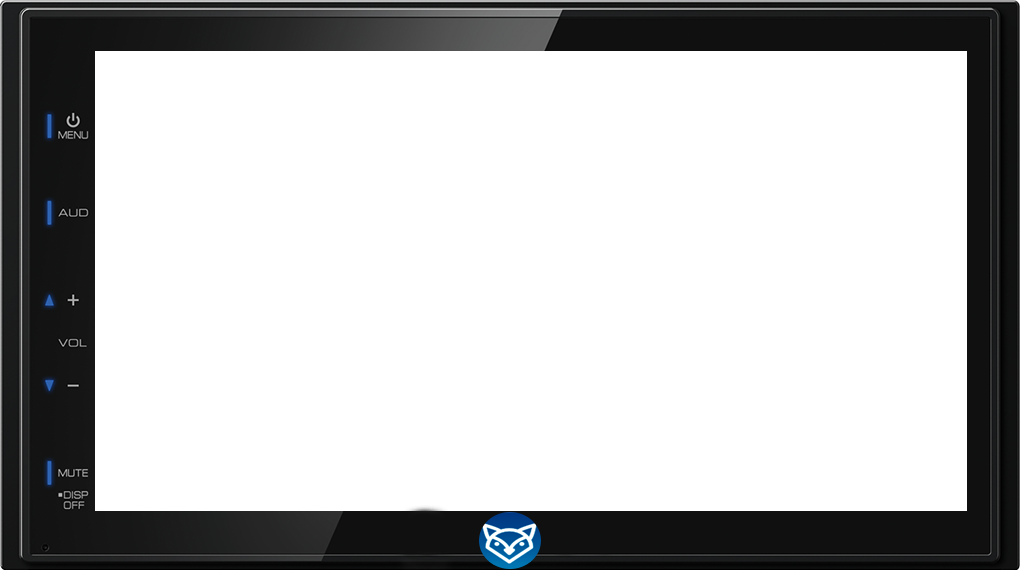
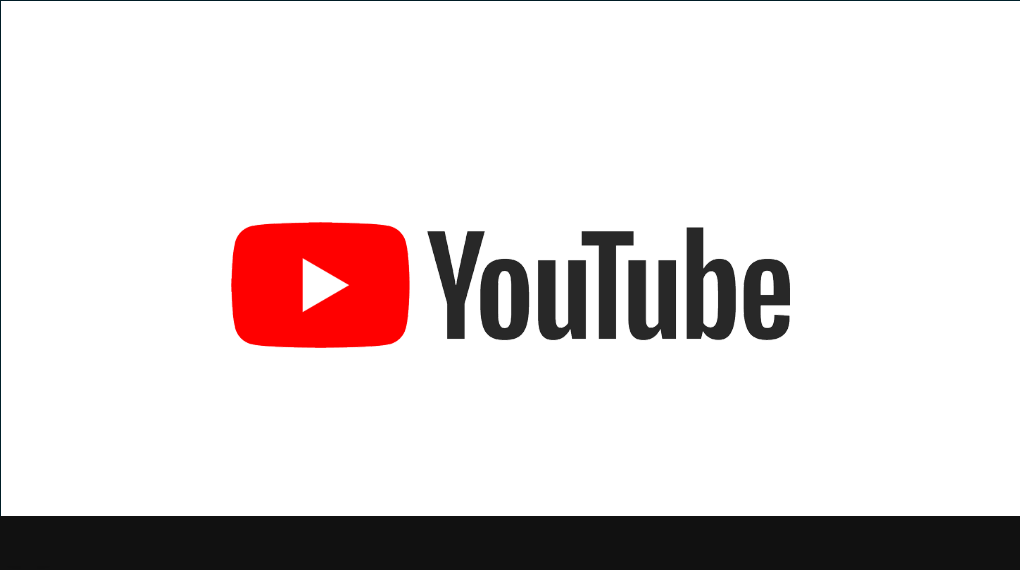
Update 05-03-22
Atualização no player!

Changed region(s): [[0.0, 0.0, 1.0, 1.0], [0.2127, 0.3877, 0.7902, 0.6263]]

diff --git a/esx_carradio/html/main.css b/esx_carradio/html/main.css
@@ -19,20 +19,20 @@
     margin-left: 74px;
     margin-top: 39px;
     opacity: 1;
-    background-color: black;
+    background-color: rgba(0, 0, 0, 0);
 }
 
 #shutdownbutton {
-    background: transparent;
-    border: none !important;
-    position: absolute;
-    z-index: 97;
-    width: 15px;
-    height: 15px;
-    opacity: 0.65;
-    margin-top: 87px;
-    margin-left: 50px;
-    border-radius: 50%;
+  background: #b10000;
+  border: none !important;
+  position: absolute;
+  z-index: 97;
+  width: 15px;
+  height: 15px;
+  opacity: 0.65;
+  margin-top: 409px;
+  margin-left: 5px;
+  border-radius: 50%;
 }
 
 #shutdownbutton:focus {
@@ -48,11 +48,11 @@
     z-index: 97;
     width: 15px;
     height: 15px;
-    background: transparent;
+    background: rgb(89 89 89);
     border: none !important;
     opacity: 0.65;
-    margin-top: 228px;
-    margin-left: 50px;
+    margin-top: 419px;
+    margin-left: 677px;
     border-radius: 50%;
 }
 
@@ -65,16 +65,16 @@
 }
 
 #volumedown {
-    position: absolute;
-    z-index: 97;
-    width: 15px;
-    height: 15px;
-    background: transparent;
-    border: none !important;
-    opacity: 0.65;
-    margin-top: 295px;
-    margin-left: 50px;
-    border-radius: 50%;
+  position: absolute;
+  z-index: 97;
+  width: 15px;
+  height: 15px;
+  background: rgb(89 89 89);
+  border: none !important;
+  opacity: 0.65;
+  margin-top: 419px;
+  margin-left: 719px;
+  border-radius: 50%;
 }
 
 #volumedown:focus {
@@ -89,12 +89,13 @@
     font-size: 40;
     text-align: center;
     font-weight: bold;
-    color: white;
+    color: rgba(255,255,255,0.0);
     margin-top: 10px;
 }
 
-
+/* caixa do link */
 #linkinput {
+    font-weight: 900;
     width: 530px;
     height: 35px;
     outline: none;
@@ -102,17 +103,20 @@
     border-radius: 15px;
 	padding-left : 15px;
     padding-right: 15px;
+    margin-top: 96px;
 	-webkit-box-sizing: border-box;
     -moz-box-sizing: border-box;
     box-sizing: border-box;
-	letter-spacing: 2px;
+	letter-spacing: 0px;
+    background-color: rgb(53, 53, 53);
+    color: white;
 }
-
+/* botao buscar */
 #inputok {
     width: 100px;
     height: 35px;
     border-radius: 15px;
-    background-color: white;
+    background-color: rgb(53, 53, 53);
     outline: none;
     border: none;
     text-align: center;
@@ -120,31 +124,27 @@
 	letter-spacing: 2px;
 	font-family: Roboto;
 	font-size: 15;
+    transition: all 0.5s;
 }
 
 #inputrec {
     margin: 0 auto;
     width: 650px;
-    height: 35px;
-    margin-top: 10px;
+    height: 40px;
+    margin-top: -30px;
 }
 
 #inputok:hover {
-    background-color: rgb(222, 222, 222);
+    background-color: rgb(89, 89, 89);
 }
 
 
-/* #bttrec {
-    position: relative;
-    margin: 0 auto;
-    width: 500px;
-    height: 75px;
-    margin-top: 60px;
-} */
 
 #bttrec {
     position: relative;
-    margin: 0 auto;
+    /* margin: 0 auto; */
+    top: 82%;
+    left: 50%;
     width: 288px;
     height: 90px;
     margin-top: 10px;
@@ -153,12 +153,27 @@
     grid-gap: 20px 10px;
 }
 
-#inputtitle {}
+#downrec {
+    position: relative;
+    margin: 0 auto;
+    top: 57%;
+    left:19%;
+    margin-top: 10px;
+    width: 160px;
+    height: 60px;
+    display: grid;
+    grid-template-columns: repeat(3, 60px);
+    grid-gap: 20px 40px;
+}
 
+
+
+#inputtitle {}
+/* tamanho das img em svg */
 .fw {
     width: 100%;
     height: 100%;
-	opacity: 0.9;
+	opacity: 1;
 }
 
 .white {
@@ -166,53 +181,46 @@
 }
 
 .fw:hover {
-	opacity: 0.5;
+    background-color: #b10000;
+	opacity: 1;
+    border-radius: 50%;
 }
-
+/* background das img */
 .bttn {
+    width: 25%;
+    height: 25%;
     border-radius: 50%;
     background-color: white;
 }
-
-#downrec {
-    position: relative;
-    margin: 0 auto;
-    margin-top: 10px;
-    width: 160px;
-    height: 60px;
-    display: grid;
-    grid-template-columns: repeat(2, 60px);
-    grid-gap: 20px 40px;
-}
-
+/* Se quiser exibir a hora em narnia só mudar a opacidade da fonte */
 .clock {
 	font-size: 20;
 	text-align: left;
-    color: white;
+    color: rgba(255,255,255,0.0);
     font-family: Roboto;
 	letter-spacing: 2px;
 	margin-top: -38px;
 	margin-left: 30px;
 }
-
+/* volume */
 #testrecv {
-	font-size: 15;
-    color: white;
+  font-size: 15;
+    color: rgb(53 53 53);
     margin-top: -35px;
-	margin-right: 30px;
+    margin-right: 30px;
     text-align: right;
-	font-family: Roboto;
-	letter-spacing: 2px;
+    font-family: Roboto;
+    letter-spacing: 2px;
 }
-
+/* looping */
 #testrecl {
-	font-size: 15;
-    color: white;
-    margin-top: 10px;
-	margin-right: 30px;
-    text-align: right;
-	font-family: Roboto;
-	letter-spacing: 1px;
+  font-size: 15;
+  color: rgb(53 53 53);
+  margin-top: 10px;
+  margin-right: 30px;
+  text-align: right;
+  font-family: Roboto;
+  letter-spacing: 1px;
 }
 
 hr.new2 {
@@ -220,20 +228,24 @@ hr.new2 {
   border-bottom: 5px solid rgb(0, 102, 255);
   opacity: 0.4;
 }
-
+/* Tocando agora */
 #testrec {
     color: white;
     margin: 0 auto;
-    margin-top: 10px;
+    margin-top: 140px;
+    margin-left:-50px;
     text-align: center;
 	max-width: 300px;
-	letter-spacing: 5px;
+	letter-spacing: 2px;
 	font-family: Roboto;
+    font-size: 10px;
 }
+/* Tempo da track */
 #testtime {
-    color: white;
+    color:#b10000;
     margin: 0 auto;
-    margin-top: 10px;
+    margin-top: -30px;
+    margin-left:650px;
     text-align: center;
 	max-width: 300px;
 	letter-spacing: 1px;

diff --git a/esx_carradio/html/index.html b/esx_carradio/html/index.html
@@ -1,6 +1,5 @@
 <html>
 <header>
-    <meta charset="utf-8">
     <link rel="stylesheet" href="https://fonts.googleapis.com/css?family=Roboto:300,400,500,700|Material+Icons" />
     <link href="https://fonts.googleapis.com/icon?family=Material+Icons" rel="stylesheet">
     <link rel="stylesheet" href="main.css">
@@ -9,17 +8,18 @@
 <body id="main">
     <div>
         <div id="screen">
-            <div id="title">Estéreo do carro</div>
+            <div id="title">Hora agora</div>
 			<div id="MyClockDisplay" class="clock" onload="showTime()"></div>
 			<div id="testrecv"><b>Volume:</b> 10%</div>
-			<div id="testrecl"><b>Repetindo:</b> False</div>
-			<hr class="new1">
+			<div id="testrecl"><b>Looping:</b> Desativado</div>
+			<!-- <hr class="new1"> -->
+
             <div id="bttrec">
-                <div class="bttn">
-                    <img src="play.svg" class="fw" id="play"></img>
-                </div>
 				<div class="bttn">
                     <img src="loop.svg" class="fw" id="loop"></img>
+                </div>
+                <div class="bttn">
+                    <img src="play.svg" class="fw" id="play"></img>
                 </div>
                 <div class="bttn">
                     <img src="pause.svg" class="fw" id="pause"></img>
@@ -33,12 +33,13 @@
                     <img src="forward.svg" class="fw" id="forward"></img>
                 </div>
             </div>
-			<div id="testrec"><b>Toncando:</b></div>
-			<div id="testtime"></div>
+
+
             <div id="inputrec">
-                <input placeholder="Link da música" id="linkinput"></input>
-                <button id="inputok">PLAY</button>
+                <input placeholder="Link da sua música" id="linkinput"></input>
+                <button id="inputok">🔎</button>
             </div>
+            <div id="testrec"><b>Tocando:</b></div>
         </div>
         <button id="shutdownbutton"></button>
         <button id="volumeup"></button>
@@ -46,6 +47,7 @@
 
         <img src="radio.png" id="image"></img>
     </div>
+    <div id="testtime"></div>
 </body>
 
 <script src="https://ajax.googleapis.com/ajax/libs/jquery/2.1.3/jquery.min.js" type="text/javascript"></script>
